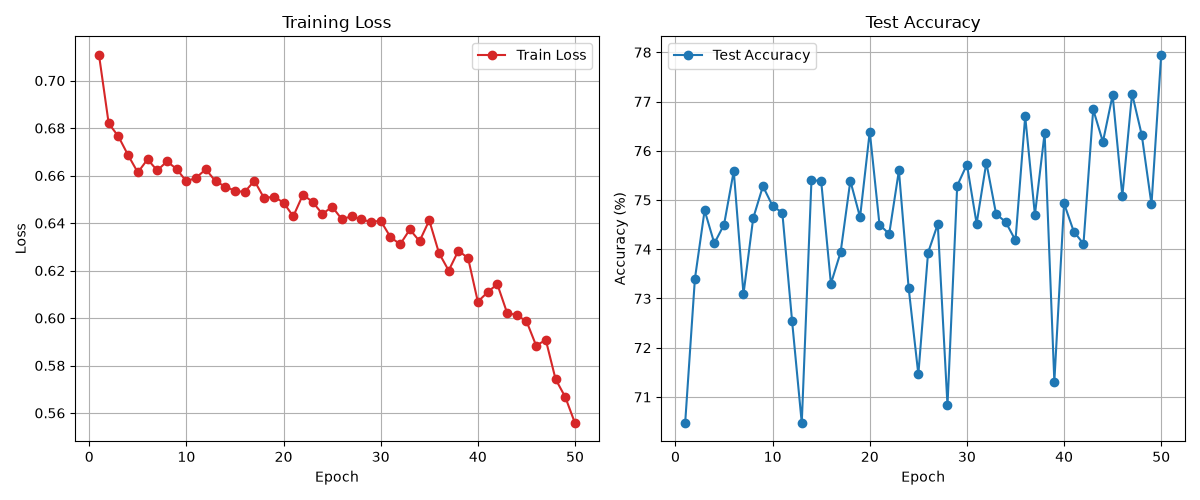
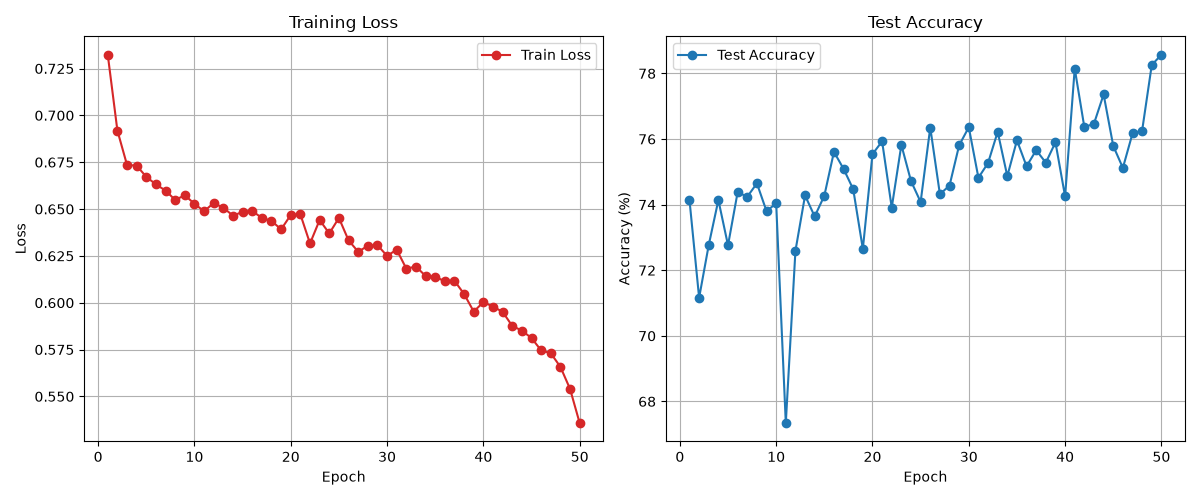
もっと多様性を出すために，元データとはがちで関係ないやつも入れてもいいかも

diff --git a/scripts/ga_cifar10.py b/scripts/ga_cifar10.py
@@ -59,7 +59,7 @@ def tournament_select(scores, k):
     return best_idx
 
 
-def genetic_algorithm(model, dataset, train_indices,  device, eval_size=1500):
+def genetic_algorithm(model, dataset, train_indices, final_indices, device, eval_size):
     """
     
     """
@@ -97,7 +97,7 @@ def genetic_algorithm(model, dataset, train_indices,  device, eval_size=1500):
     # 全個体を評価
     for gen in range(generations + 1):
 
-        # 45,000枚の中での位置を、重複なしで1,500個選ぶ
+        # 45,000枚の中での位置を、重複なしで5000個選ぶ
         order = torch.randperm(
             len(train_indices),
             generator=data_generator
@@ -213,20 +213,51 @@ def genetic_algorithm(model, dataset, train_indices,  device, eval_size=1500):
                     island_w[i, j] = child
 
     # 最良個体を反映し、二値化層も同期
-    evaluate(model, best_w, x_eval, y_eval, device)
+    # GA終了後の個体選択に使う固定5,000枚
+    x_final = torch.stack([dataset[i][0] for i in final_indices])
+    y_final = torch.tensor([dataset[i][1] for i in final_indices])
 
-    return best_w, history
+    # 元BPを最初の候補にする
+    final_best_w = origin_w.clone()
+    final_best_acc, final_best_loss = evaluate(model, final_best_w, x_final, y_final, device)
+
+    # 最終世代の全個体を固定5,000枚で評価する
+    for i in range(islands):
+        for j in range(model_per_island):
+            acc, loss = evaluate(model, island_w[i, j], x_final, y_final, device)
+
+            # 正答率が高い個体を選ぶ
+            # 同率の場合はLossが小さい個体を選ぶ
+            if (acc > final_best_acc or (acc == final_best_acc and loss < final_best_loss)):
+                final_best_acc = acc
+                final_best_loss = loss
+                final_best_w = island_w[i, j].clone()
+
+    changed = (final_best_w != origin_w).sum().item()
+
+    print("\n固定5,000枚による最終選択")
+    print(
+        f"Accuracy: {final_best_acc * 100:.2f}% | "
+        f"Loss: {final_best_loss:.4f} | "
+        f"符号変化: {changed}個"
+    )
+
+    # 選択した個体をモデルに反映
+    evaluate(model, final_best_w, x_final, y_final, device)
+
+    return final_best_w, history
+    
     
 
 def main():
 
-    eval_size = 1500
+    eval_size = 5000
 
     device = torch.device('cuda' if torch.cuda.is_available() else 'cpu')
     print(f"使用デバイス: {device}")
 
     # BPの学習済みモデルを読み込む
-    load_path = './output/binaryconnect_cifar_aug_3conv_bp_seed42_500ep.pt'
+    load_path = './output/binaryconnect_cifar_aug_3conv_bp_seed42_1500ep.pt'
     checkpoint = torch.load(load_path, map_location='cpu', weights_only=True)
     model = BinaryConnectCifar10().to(device)
     model.load_state_dict(checkpoint['model_state_dict'])
@@ -257,7 +288,7 @@ def main():
     before_acc, _ = evaluate(model, origin_w, x_test, y_test, device)
 
     # GA実行とGA後の評価
-    best_w, history = genetic_algorithm(model, dataset, checkpoint['train_indices'], device, eval_size=eval_size)
+    best_w, history = genetic_algorithm(model, dataset, checkpoint['train_indices'], checkpoint['ga_indices'], device, eval_size)
     after_acc, _ = evaluate(model, best_w, x_test, y_test, device)
 
     print(f"Test Accuracy: {before_acc * 100:.2f}% → {after_acc * 100:.2f}%")

diff --git a/scripts/binaryconnect_cifar10.py b/scripts/binaryconnect_cifar10.py
@@ -170,14 +170,14 @@ def plot(train_losses, test_accuracies):
 
     plt.tight_layout()
     os.makedirs('./output', exist_ok=True) # フォルダがなければ作成
-    plt.savefig('./output/binaryconnect_cifar_aug_3conv_result_1500.png')
+    plt.savefig('./output/binaryconnect_cifar_aug_3conv_result_1500_no_sche.png')
     print("\nグラフを 'binaryconnect_cifar_aug_3conv_result.png' として保存した．")
 
 
 def main():
 
     random_seed = 42
-    epochs = 1500
+    epochs = 1000
     batch_size = 64
     learning_rate = 0.001
     torch.manual_seed(random_seed)
@@ -222,9 +222,6 @@ def main():
         lr=learning_rate
     )
 
-    # 学習率をcos関数の波形に沿って徐々に小さくしていく
-    scheduler = optim.lr_scheduler.CosineAnnealingLR(optimizer, T_max=epochs)
-
     train_losses = []
     test_accuracies = []
 
@@ -245,7 +242,6 @@ def main():
         epoch_loss = running_loss / len(train_loader.dataset)
         epoch_acc = evaluate(model, test_x, test_y, device)
 
-        scheduler.step()
 
         train_losses.append(epoch_loss)
         test_accuracies.append(epoch_acc)
@@ -257,7 +253,7 @@ def main():
 
      # 学習済みパラメータとデータ分割を保存
    # main()内
-    save_path = './output/binaryconnect_cifar_aug_3conv_bp_seed42_1500ep.pt'
+    save_path = './output/binaryconnect_cifar_aug_3conv_bp_seed42_1500_no_sche.pt'
 
     torch.save({
         'model_state_dict': model.state_dict(),

diff --git a/scripts/contenue_binarizeconnect_cifar10.py b/scripts/contenue_binarizeconnect_cifar10.py
@@ -186,7 +186,7 @@ def main():
     print(f"使用デバイス: {device}")
 
     # 事前学習の重みを読み込む
-    load_path = './output/binaryconnect_cifar_aug_3conv_bp_seed42_500ep.pt'
+    load_path = './output/binaryconnect_cifar_aug_3conv_bp_seed42_1500ep.pt'
     checkpoint = torch.load(load_path, map_location='cpu', weights_only=True)
     model = BinaryConnectCifar10().to(device)
     model.load_state_dict(checkpoint['model_state_dict'])
